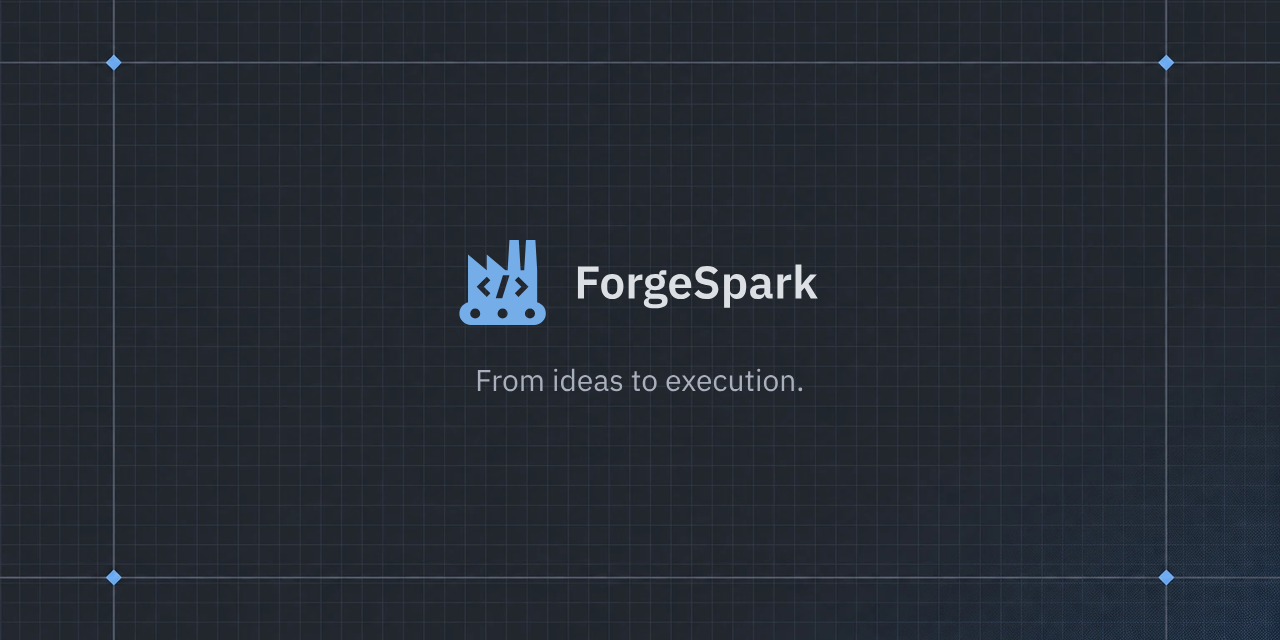
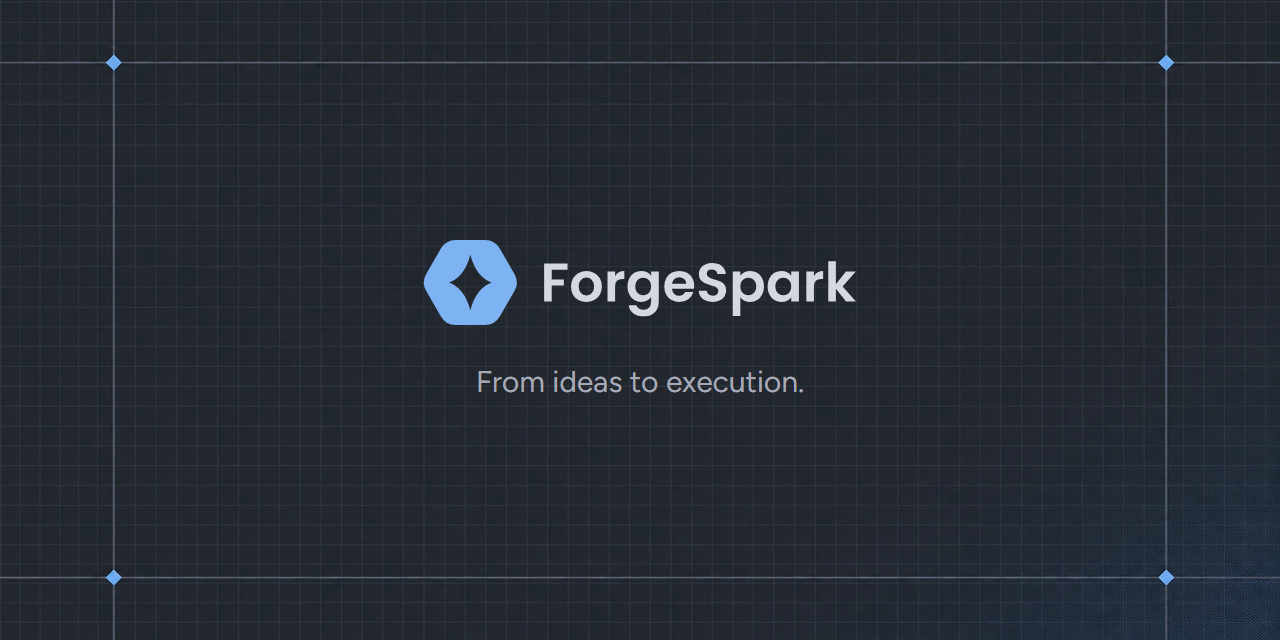
feat(brand): draw the mark of ForgeSpark, a nut with a spark
The mark is a hexagon with rounded corners, like a nut or a forged part,
with a four-pointed spark cut out of its middle: the part is the
execution and the spark the idea. It replaces the software factory of
the product's first name in every file of the brand and in BrandMark.

- mark.svg, mark-on-dark.svg and favicon.svg: the new path, in brand;
- logo.svg and logo-on-dark.svg: the name in Poppins 600, in
  foreground, in place of IBM Plex Sans;
- favicon.ico and the PNG icons: drawn from the path, in brand and on
  primary, the colours of the current style, in place of #1348dc;
- social-preview.png: the new logo and the slogan in Figtree;
- source/mark-concept.svg, the concept of the old mark, removed;
- DESIGN.md describes the mark and closes the two gaps of the brand.

Changed region(s): [[0.3125, 0.375, 0.6875, 0.5312], [0.375, 0.5625, 0.625, 0.625]]

diff --git a/apps/web/src/shared/components/brand-mark.tsx b/apps/web/src/shared/components/brand-mark.tsx
@@ -33,15 +33,16 @@ export function ProductLogo({ withSlogan = false }: { withSlogan?: boolean }) {
 
 /**
  * The mark of the product, a copy of `docs/design/brand/mark.svg` in one
- * colour: the current text colour, which the logo sets to `brand`. It is
- * decoration beside the product name, so assistive technology skips it.
+ * colour: the current text colour, which the logo sets to `brand`. The spark
+ * is a hole in the nut, drawn the other way round. It is decoration beside the
+ * product name, so assistive technology skips it.
  */
 function BrandMark(props: ComponentProps<"svg">) {
   return (
     <svg viewBox="0 0 64 64" aria-hidden="true" focusable="false" {...props}>
       <path
         fill="currentColor"
-        d="M8 48L8 13L21 24L21 13L34 24L35.5 24L36.75 3L43.25 3L44.5 24L47 24L48.25 3L54.75 3L56 24L56 48zM21 42.5L23.5 40L19 35.5L23.5 31L21 28.5L14 35.5zM27.25 43.5L31.75 43.5L36.75 27.5L32.25 27.5zM50 35.5L43 28.5L40.5 31L45 35.5L40.5 40L43 42.5zM10 46H54A8 8 0 0 1 54 62H10A8 8 0 0 1 10 46zM9.5 54a3.5 3.5 0 1 0 7 0a3.5 3.5 0 1 0 -7 0zM28.5 54a3.5 3.5 0 1 0 7 0a3.5 3.5 0 1 0 -7 0zM47.5 54a3.5 3.5 0 1 0 7 0a3.5 3.5 0 1 0 -7 0z"
+        d="M59 26.8Q62 32 59 37.2L50 52.78Q47 57.98 41 57.98L23 57.98Q17 57.98 14 52.78L5 37.2Q2 32 5 26.8L14 11.22Q17 6.02 23 6.02L41 6.02Q47 6.02 50 11.22ZM32 15Q28.5 28.5 19 32Q28.5 35.5 32 49Q35.5 35.5 45 32Q35.5 28.5 32 15Z"
       />
     </svg>
   )

diff --git a/DESIGN.md b/DESIGN.md
@@ -269,12 +269,12 @@ What makes the style recognisable, beyond the values above.
 
 The product is ForgeSpark, one word with two capitals, and its slogan is "From ideas to execution.", with its full stop. Both stay in English in every language of the app: they are the brand, not text to translate.
 
-The mark is a software factory in one solid shape: a building with a sawtooth roof and two chimneys, the code symbol `</>` cut out of its wall, standing on a conveyor belt with three rollers. It is drawn on a 64-unit square.
+The mark is a nut with a spark: a hexagon with rounded corners, flat at the top and the bottom like a nut or a forged part, with a four-pointed spark cut out of its middle. The part is the execution and the spark the idea. It is drawn on a 64-unit square: the hexagon has a radius of 30 units and corners rounded by 6, and the spark is 26 units wide and 34 high.
 
 - The mark has one colour: `brand` on a surface, or `primary-foreground` on a `primary` tile. It follows rule 2.
-- The logo is the mark and the product name. In the app the name is set in title type (`type-title`), in `foreground`, beside the mark in `brand`: `ProductLogo` in `apps/web/src/shared/components/brand-mark.tsx`, whose mark is a copy of `mark.svg`, draws both, in the header of the framed pane and of the shell.
+- The logo is the mark and the product name. In `logo.svg` the name is drawn in Poppins at weight 600, in `foreground`, its capitals 45% as high as the mark. In the app the name is set in title type (`type-title`), in `foreground`, beside the mark in `brand`: `ProductLogo` in `apps/web/src/shared/components/brand-mark.tsx`, whose mark is a copy of `mark.svg`, draws both, in the header of the framed pane and of the shell.
 - The slogan shows on the screens seen before a login: in the header of the framed pane, under the product name, in caption type (`type-caption`), in `muted-foreground`. The shell shows the name alone, because the work needs no slogan.
-- The smallest size of the mark is 16px. The space around it is at least a quarter of its width.
+- The smallest size of the mark is 16px, where the spark closes to a round hole; from 32px it reads as a spark. The space around it is at least a quarter of its width.
 - The mark is never stretched, rotated, outlined or given a shadow.
 
 The files are in [`docs/design/brand/`](docs/design/brand/). They are the source: an app serves copies of them.
@@ -285,13 +285,13 @@ The files are in [`docs/design/brand/`](docs/design/brand/). They are the source
 | `logo.svg`, `logo-on-dark.svg` | The mark and the product name, on a light and on a dark surface |
 | `favicon.svg` | The browser tab. It changes colour with the theme of the browser |
 | `favicon.ico` | The browser tab where an SVG is not accepted: 16, 32 and 48px |
-| `apple-touch-icon.png` | The home screen of iOS: 180px, the mark in white on `primary` |
-| `icon-192.png`, `icon-512.png` | The icons of the web app manifest |
-| `icon-maskable-512.png` | The maskable icon of the web app manifest, with the mark inside the safe area |
-| `social-preview.png` | The preview of a shared link and of the repository, with the mark, the name and the slogan: 1280 by 640px |
-| `source/` | What the image models returned: the concept of the mark and the background of the preview |
+| `apple-touch-icon.png` | The home screen of iOS: 180px, the mark in white on a square of `primary`, which iOS rounds |
+| `icon-192.png`, `icon-512.png` | The icons of the web app manifest: the mark in white on a tile of `primary` with corners of an eighth of its width |
+| `icon-maskable-512.png` | The maskable icon of the web app manifest: the mark in white on `primary` to the edges, inside the safe area |
+| `social-preview.png` | The preview of a shared link and of the repository: `logo-on-dark.svg` and the slogan in Figtree, in `muted-foreground` of the dark theme, over the background, 1280 by 640px |
+| `source/` | What an image model returned for the background of the preview |
 
-The shape of the mark and the background of the preview came from image models. The mark was then redrawn on the 64-unit square, and the name was set over the background.
+The mark was drawn by hand on the 64-unit square; the background of the preview came from an image model. The PNG files and `favicon.ico` are drawn from the path of `mark.svg`, in `primary` and in `brand`, the colours of the current style.
 
 ## Components
 
@@ -366,8 +366,6 @@ The code, `AppShell`, draws the recipe cut down to what works, because a control
 
 ## Known gaps
 
-- The mark still draws the software factory of the product's first name, My Software Factory Manager. A mark for ForgeSpark is drawn in a change of its own, with the files of the brand.
-- The files of the brand in `docs/design/brand/` still carry the blue of the previous style, `#1348dc`, and `logo.svg` sets the name in IBM Plex Sans. They are redrawn in a change of their own; the app draws the mark from `BrandMark`, in `brand`.
 - The frame colour comes from Vibe's tokens, but where monday.com puts it, behind the header and the sidebar, was read from its product, not from documentation.
 - Vibe documents no mono typeface; JetBrains Mono is this project's choice.
 - Hover, focus and active states come from Vibe's CSS. None was seen in motion.
